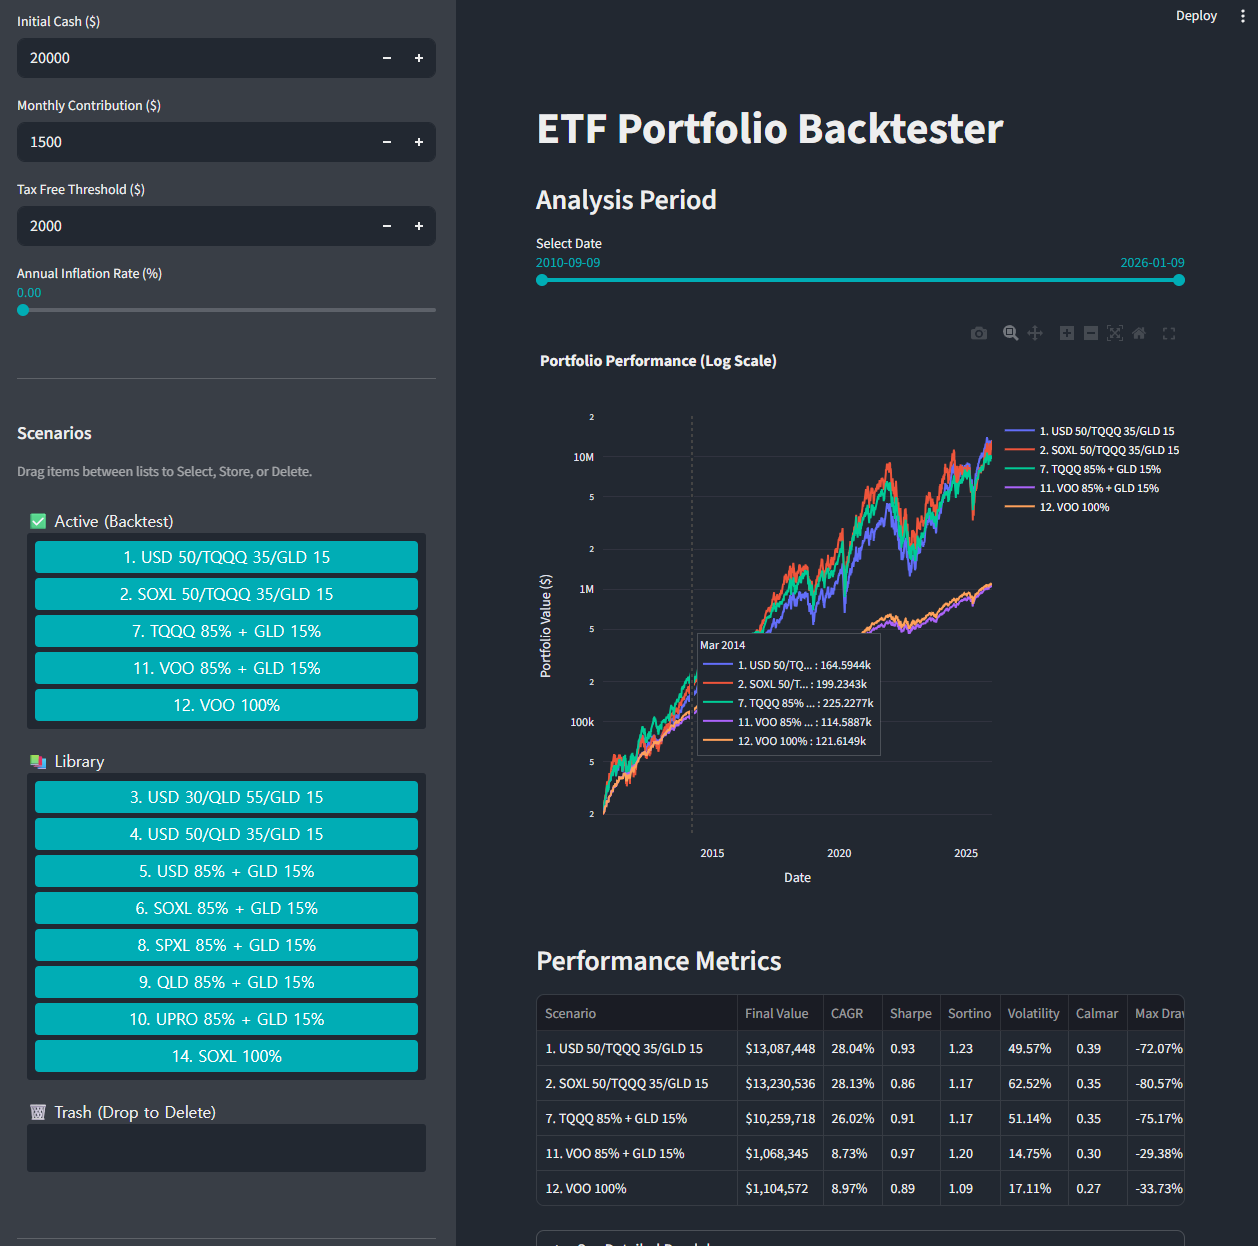
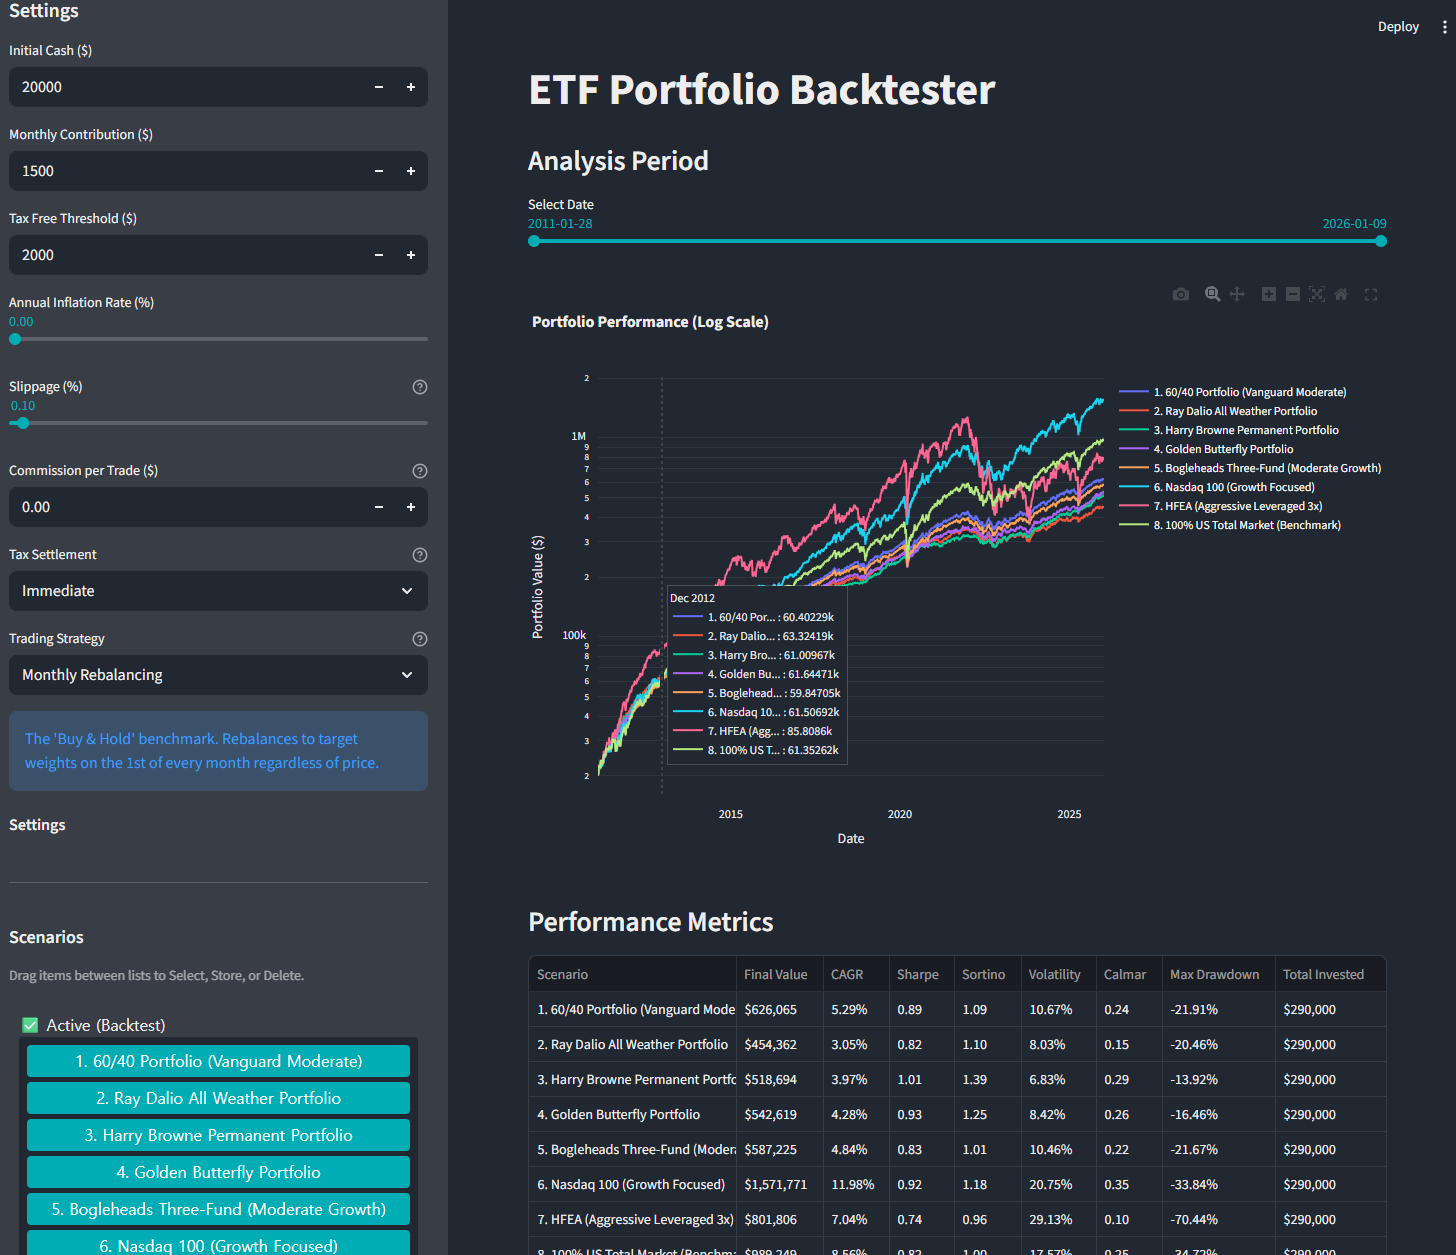
docs: change image and default scenario
change image and default scenario

diff --git a/README.md b/README.md
@@ -20,3 +20,8 @@ uv run streamlit run main.py
     - Interactive performance charts.
     - Metrics: CAGR, Sharpe, Sortino, Volatility, Calmar, Max Drawdown.
     - Detailed breakdown of final values and costs.
+
+
+## Image
+
+![page_image](./docs/page_image.png)
